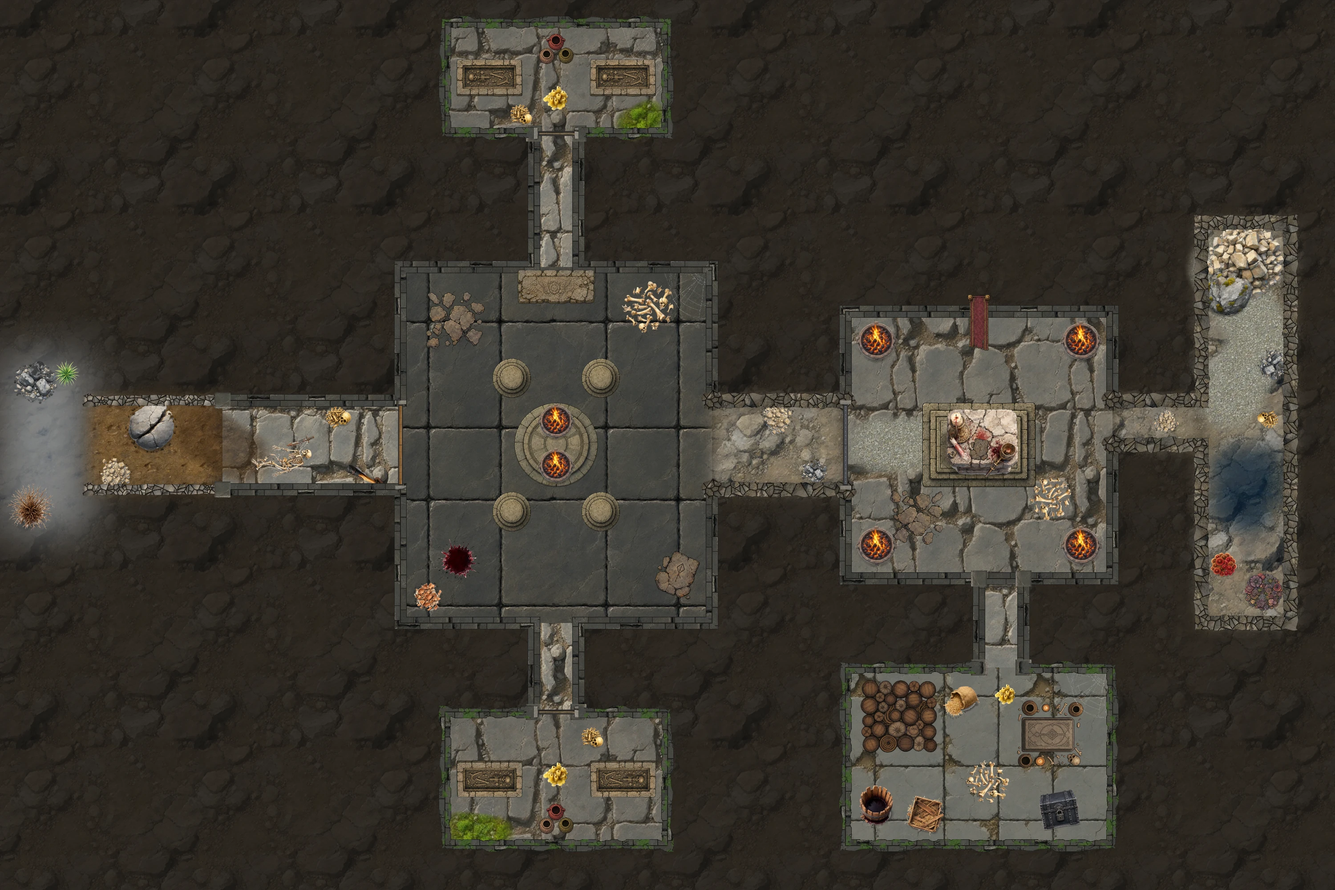
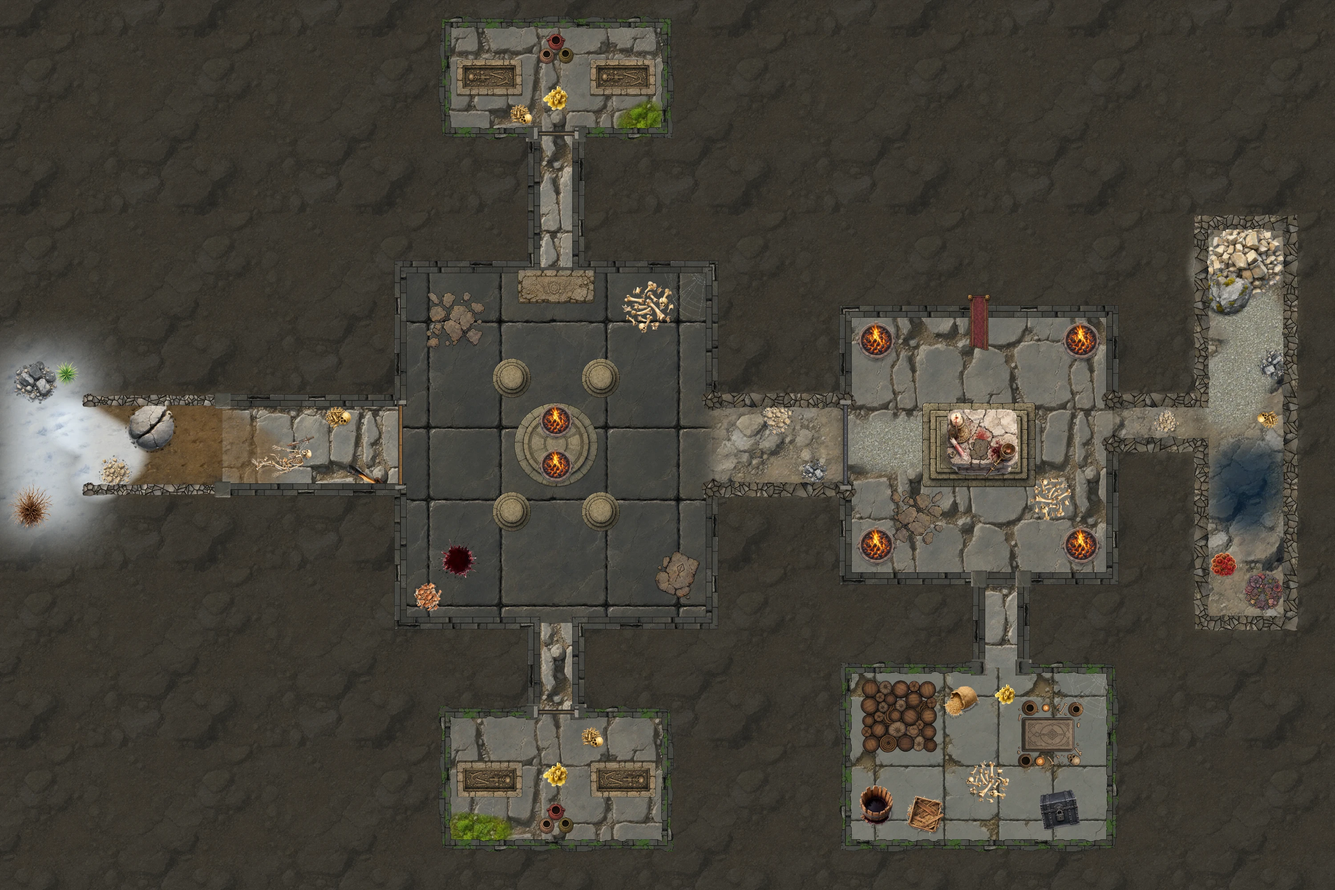
Map Studio agent tools: tabs (select, close), grid, layer, open demo; generate takes stairArt (check caught its licensed default stairs); coverage maps controls honestly and prints the ones with no action yet; Cinder Barrow art pass (rock and grit, the snowy mouth)

Changed region(s): [[0.0, 0.372, 0.124, 0.651], [0.124, 0.465, 0.217, 0.558]]

diff --git a/studio/web/agent.js b/studio/web/agent.js
@@ -160,7 +160,8 @@ window.KrakenStudioAgent = (() => {
       if (!window.KrakenGenerate) throw Error('The generator did not load.');
       const made = await window.KrakenGenerate.build({...args, grid: args.grid});
       const p = S().project;
-      for (const o of p.objects) if (o.layer === 'map') { o.floor = true; if (/^Room /.test(o.name)) o.room = true; }
+      // Its floors remember the art they were made from (check reports art outside the shipped packs).
+      for (const o of p.objects) if (o.layer === 'map') { o.floor = true; o.sourceArt = /^Room /.test(o.name) ? made.roomFloor : made.corridorFloor; if (/^Room /.test(o.name)) o.room = true; }
       done();
       return {...made, settings: window.KrakenGenerate.SETTINGS.map(s => s.id), map: summary(false)};
     },
@@ -393,8 +394,50 @@ window.KrakenStudioAgent = (() => {
       return summary(false);
     },
     async projects() { const r = await fetch('/api/projects'); const d = await r.json(); return (d.projects || []).map(x => ({id: x.id, name: x.name, saved: x.savedAt || x.updated || null})); },
+    async openDemo() { const r = await fetch('/api/demo'); const d = await r.json(); if (!r.ok) throw Error(d.error || 'No example map.'); await S().refreshAssets(); S().openDocument(d.project); S().switchMode('view'); return summary(false); },
     async openSaved({id}) { const r = await fetch('/api/projects/' + encodeURIComponent(id)); const d = await r.json(); if (!r.ok) throw Error(d.error || 'No such project.'); S().openDocument(d.project || d); S().switchMode('view'); return summary(false); },
-    tabs() { const sh = window.KrakenShell; return {active: sh?.active ?? 0, tabs: (sh?.tabs || []).map((t, i) => ({index: i, name: t.doc.project.name, dirty: !!t.doc.dirty}))}; },
+    // The open maps (the tab bar): list them, switch to one (select: its index), close one (close: its index; discard drops unsaved changes).
+    async tabs({select, close, discard = false}) {
+      const sh = window.KrakenShell;
+      if (select !== undefined) sh.selectTab(Number(select));
+      if (close !== undefined) await sh.closeTab(Number(close), !!discard);
+      return {active: sh?.active ?? 0, tabs: (sh?.tabs || []).map((t, i) => ({index: i, name: t.doc.project.name, dirty: !!t.doc.dirty}))};
+    },
+    // Grid & map size (and the Map settings fields): width and height in squares, the grid's size in pixels,
+    // its offset, feet per square, the background, the name. Art, walls and lights stay where they are.
+    grid({width, height, size, offsetX, offsetY, distance, background, name}) {
+      const p = S().project, next = JSON.parse(JSON.stringify(p)), G = size ? Math.round(num(size, 'size')) : p.grid;
+      if (size) next.grid = G;
+      if (width) next.width = Math.round(num(width, 'width') * G);
+      if (height) next.height = Math.round(num(height, 'height') * G);
+      if (offsetX !== undefined || offsetY !== undefined) next.gridOffset = {x: Number(offsetX ?? p.gridOffset?.x ?? 0), y: Number(offsetY ?? p.gridOffset?.y ?? 0)};
+      if (distance) next.gridDistance = num(distance, 'distance');
+      if (background) next.background = String(background);
+      if (name) next.name = String(name).slice(0, 120);
+      S().replace(next);
+      return summary(false);
+    },
+    // The Layers panel: a layer (its id or name) shown or hidden, locked or not, renamed, moved up or down,
+    // or made the layer new art goes on; walls, lights, effects and regions groups shown or hidden.
+    layer({id, name, hidden, locked, rename, move, active}) {
+      const p = S().project, ref = id ?? name;
+      window.KrakenLayers.ensure(p);
+      S().snapshot();
+      if (['walls', 'lights', 'effects', 'regions'].includes(String(ref)) && !p.layers.some(l => l.id === ref)) {
+        if (hidden !== undefined) p.groups[ref].visible = !hidden;
+      } else {
+        const l = p.layers.find(v => v.id === ref || v.name.toLowerCase() === String(ref).toLowerCase()) || p.layers.find(v => v.id === ensureLayer(ref));
+        if (hidden !== undefined) l.visible = !hidden;
+        if (locked !== undefined) l.locked = !!locked;
+        if (rename) l.name = String(rename).slice(0, 60);
+        if (active) p.activeLayer = l.id;
+        const i = p.layers.indexOf(l);
+        if (move === 'up' && i < p.layers.length - 1) [p.layers[i], p.layers[i + 1]] = [p.layers[i + 1], p.layers[i]];
+        if (move === 'down' && i > 0) [p.layers[i], p.layers[i - 1]] = [p.layers[i - 1], p.layers[i]];
+      }
+      done();
+      return summary(false).layers;
+    },
   };
   const lightFields = f => {
     const out = {};

diff --git a/studio/web/generate.js b/studio/web/generate.js
@@ -62,7 +62,7 @@
   }
   // A generated layout opened as a new map. The dialog's way, and Map Studio's agent tools':
   // {setting, seed, composition, rooms, loops, deadEnds, roomFloor, corridorFloor (art id or name; empty for
-  // the setting's), doorsOpen, stairs, grid}. Throws on failure; returns what it made.
+  // the setting's), doorsOpen, stairs, stairArt (art id or name; empty for the starter kit's), grid}. Throws on failure; returns what it made.
   async function build(o){
     const p=S.project,grid=Math.round(Number(o.grid)||Number(p.grid))||50;
     const s=L.SETTINGS.find(v=>v.id===o.setting)||L.SETTINGS[0],map=L.generate({seed:o.seed||randomSeed(),setting:s.id,composition:o.composition,
@@ -74,14 +74,14 @@
     status('Laying '+out.regions.length+' floors…');
     const floors=await Promise.all(out.regions.map(region=>{const a=region.kind==='room'?rooms:corridors;return floorObject(region,a,art.get(a.id),grid)}));
     floors.forEach(f=>S.addAsset(f.asset));const objects=floors.map(f=>f.object);
-    const stairArt=named(STAIRS),stairs=o.stairs!==false&&stairArt?out.stairs.filter(t=>t.kind==='stairs'):[];
+    const stairArt=o.stairArt?S.assets.find(v=>v.id===o.stairArt)||named(o.stairArt):named(STAIRS),stairs=o.stairs!==false&&stairArt?out.stairs.filter(t=>t.kind==='stairs'):[];
     for(const t of stairs)objects.push({id:t.id,assetId:stairArt.id,name:'Stairs',x:t.x,y:t.y,width:t.width,height:t.height,rotation:t.rotation,visible:true});
     objects.forEach(o=>{o.layer=o.name==='Stairs'?'objects':'map'});
     S.openDocument({version:1,name:s.label+' ('+map.seed+')',width:out.width,height:out.height,grid,background:'#1d1b17',
       objects,walls:out.walls,lights:[],effects:[],exportLayers:p.exportLayers!==false,layout:out.layout});
     S.switchMode('view');
     const doors=out.walls.filter(w=>w.kind==='door').length;
-    return {seed:map.seed,setting:s.id,rooms:map.rooms.length,walls:out.walls.length-doors,doors,stairs:stairs.length,
+    return {roomFloor:rooms.id,corridorFloor:corridors.id,roomFloorName:rooms.name,corridorFloorName:corridors.name,seed:map.seed,setting:s.id,rooms:map.rooms.length,walls:out.walls.length-doors,doors,stairs:stairs.length,
       roomList:out.regions.filter(r=>r.kind==='room').map(r=>({id:r.id,name:r.name,squares:{x:r.bounds.x/grid,y:r.bounds.y/grid,width:r.bounds.width/grid,height:r.bounds.height/grid}}))};
   }
   async function generate(e){

diff --git a/studio/web/shell.js b/studio/web/shell.js
@@ -278,5 +278,13 @@ window.KrakenShell = (() => {
   });
 
   setTimeout(restore, 0);
-  return {openDocument, newBlank, changed, markSaved, openPicture, get tabs() { return tabs; }, get active() { return active; }};
+  // Map Studio's agent tools: switch to a tab, close one (discard: drop its unsaved changes instead of asking).
+  function closeTab(i, discard = false) {
+    if (!tabs[i]) throw Error('There is no tab ' + i + '.');
+    if (discard) { sync(); tabs[i].doc.dirty = false; }
+    else { sync(); if (tabs[i].doc.dirty && !isEmpty(tabs[i].doc.project)) throw Error('That map has changes that are not saved: save it, or close it with discard.'); }
+    return close(i);
+  }
+  function selectTab(i) { if (!tabs[i]) throw Error('There is no tab ' + i + '.'); activate(i); }
+  return {openDocument, newBlank, changed, markSaved, openPicture, closeTab, selectTab, get tabs() { return tabs; }, get active() { return active; }};
 })();

diff --git a/PLAN.md b/PLAN.md
@@ -442,5 +442,5 @@ A to Z means that, by the end of step 6, a GM can run one C&C session start to f
 | Forged in the Dark | Done (worktree branch) | The Blades in the Dark SRD (John Harper, One Seven Design, CC BY 3.0) as the built-in ruleset "Forged in the Dark" (the licence forbids "Blades in the Dark" in a product title). Engine `shared/forged/rules.mjs` (mechanics only): d6 pools read by the highest die (two 6s critical, zero dice two keeping the lowest, no critical), position and effect (clock ticks: limited 1, standard 2, great 3, extreme 4 is Kraken's), assist +1d/1 stress, push +1d or +1 effect/2 stress, Devil's Bargain, resistance 6 - highest (critical clears 1), stress 9 (+1 Composed), trauma at the last box (4 retires, +1 Hardened), harm rows 2/2/1 moving up, penalties (less effect, -1d, need help; Tough as nails), the healing clock (4, Vigorous 3), xp tracks (playbook 8, attributes 6) and advances, load (3/5/6, Mule 5/7/8), crew (Tier, hold, rep 12 - turf, develop for new Tier x 8 coin, heat 9 to a wanted level, entanglements by heat column and wanted dice), downtime (2 activities, more for coin or rep; acquire, project, recover, reduce heat, train, vice with overindulgence). Host `electron/forged.cjs` (scoundrels, rolls, downtime, the crew on the party record's data.crew, payoff, heat, entanglements, engagement, fortune, group actions), `electron/clocks.cjs` (clocks and the Score panel's state, for every ruleset). UI: `src/characters/SheetForged.tsx` (sheet + wizard), `src/party/CrewSheet.tsx` (crew sheet + wizard), `src/combat/ScorePanel.tsx` (the Combat window in this ruleset), `src/notes/ClocksWindow.tsx` (window, strip). Books from the SRD's Markdown (`games/forged-dark`): Scoundrel's Handbook (7 playbooks and 6 crew types of Kraken's own made of the SRD's 42 + 16 example abilities, 16 standard items, 10 tables), Game Master's Guide (10 cohorts, entanglements), The Brine Street Job (7 story entries, 5 NPCs, 4 factions, 4 clocks, 2 parcels, a mapgen map with 61 walls and 7 doors). Tools `kraken_forged`, `kraken_clocks`; tests `npm run forged` (99 checks), `npm run forged-ui`, e2e plan "Forged in the Dark". |
 | Apeira Astra: Marks and tricks, A Lamp in the Rock | Done | Another agent's (Grok's) additions to Apeira Astra reviewed and folded in: 15 gear items and the Kit page, the Advancement and Marks pages, reach.mjs (12 threats and contacts with art, the Work pages: running a job, a salvage roll, six jobs), lamp-in-the-rock.mjs (registered in build-content; maps harrow-cut / harrow-midships regenerate exactly with mapgen.py; Kestrel's decks unchanged). Changed: the four text-card handouts (pictures of lettering) dropped, their words put in the story; rules text fixed to the engine (sensor tasks named Electronics, a bare spool's Desperate tasks, Skein Stomach no longer invents a jump Bane); NPC attack bonuses = skill + modifier. Marks: each Path record carries `tricks` (crew.mjs; its text lists them); a character's `marks` (0-6) and `tricks` (rules.mjs derive, awardMark, learnTrick, forgetTrick, trickChoices, tricksForSkill); electron/astra.cjs markAstra (award/take the GM's, learn the owner's: own Paths only, one per Mark, never twice; forget the GM's), table message character-mark, tool kraken_character_mark; SheetAstra's Marks panel (pips, tricks with text, Award a Mark for the GM, the trick picker) and a trick beside the skill it names; the wizard lists the Paths' tricks. Party award left alone: a Mark is one person's, not a split. check-astra (npm run astra), verify-astra-ui (the GM awards, a test player learns She'll Hold) |
 | Code mode for agents | Done | `kraken_code` (electron/agent/codeMode.cjs): one piece of JavaScript calling several Kraken tools (`await kraken(name, args)`, Promise.all, a result into the next call), only its return value sent back, as in Claude Code's Code Mode. A V8 context of its own with no require, process or string-to-code; only JSON strings cross; 5 s between awaits, 120 s (up to 600) in all, 1000 calls; not callable from itself, withheld from the DM assistant. `npm run code-mode` (18 checks: parallel and chained calls, failures, loops stopped before and after an await, the sandbox probed) |
-| Map Studio for agents | Done (Cinder Barrow candidate in review) | `kraken_map_studio` (electron/studio/agentTools.cjs; studio/web/agent.js runs each action with the editor's own code in the GM's Map Studio iframe, main.cjs studioOp opening it if closed). The editor's form-bound code made callable without drift: generate.js build() and floorObject (cells or polygons, feather), beta2.js textureStroke/paintScatter, wallart.js bakeWall (awaited, throws), los.js addShape/razor, regions.js add(points, options), app.js capture() (the canvas with chosen overlays) and loaded(). Units squares, lights feet. Render (picture = flat(), editor, play test) to PNG with crop; export = webp + walls.json (book shape, plus secret/window/type and lights, which imageRecord does not read yet) + portable zip; Save to Kraken into the open image or a new scene (backend saveOpen through studioSave). check: doors on wall lines, lights on light art, props in rooms, art outside the shipped packs. Coverage: every Map Studio button, rail mode, start card and paint tool maps to an action (check-coverage.mjs). Checks: npm run studio-tools (every action in the real app, the editor's tab/layers/canvas, Save to Kraken into the campaign). Skill: skills/kraken-map-studio (SKILL.md, README.md, missing-assets.md with prompts). The Cinder Barrow rebuilt with the tools from the scenario text (scripts/studio-map-cinder-barrow.mjs; games/ironsworn/maps/cinder-barrow-studio.webp + .walls.json, grid 100, shipped art only); not in books.mjs yet |
+| Map Studio for agents | Done (Cinder Barrow candidate in review) | `kraken_map_studio` (electron/studio/agentTools.cjs; studio/web/agent.js runs each action with the editor's own code in the GM's Map Studio iframe, main.cjs studioOp opening it if closed). The editor's form-bound code made callable without drift: generate.js build() and floorObject (cells or polygons, feather), beta2.js textureStroke/paintScatter, wallart.js bakeWall (awaited, throws), los.js addShape/razor, regions.js add(points, options), app.js capture() (the canvas with chosen overlays) and loaded(). Units squares, lights feet. Render (picture = flat(), editor, play test) to PNG with crop; export = webp + walls.json (book shape, plus secret/window/type and lights, which imageRecord does not read yet) + portable zip; Save to Kraken into the open image or a new scene (backend saveOpen through studioSave). check: doors on wall lines, lights on light art, props in rooms, art outside the shipped packs. Coverage: every Map Studio button, rail mode, start card and paint tool maps to an action (check-coverage.mjs). Also tabs (select, close), grid (Grid & map size), layer (the Layers panel), open demo; generate takes stairArt (its default stairs are a licensed starter kit's: check caught it). Not yet (coverage prints them): add your own art, map from a picture, duplicate, group, lock, align, assemblies. Checks: npm run studio-tools (every action in the real app, the Generate dialog through the same build(), the editor's tab/layers/canvas, Save to Kraken into the campaign). Skill: skills/kraken-map-studio (SKILL.md, README.md, missing-assets.md with prompts). The Cinder Barrow rebuilt with the tools from the scenario text (scripts/studio-map-cinder-barrow.mjs; games/ironsworn/maps/cinder-barrow-studio.webp + .walls.json, grid 100, shipped art only); not in books.mjs yet |
 | Next | Open | Art for both games (portraits, tokens, covers, handouts) when the GPU is free; more adventures |

diff --git a/AGENT.md b/AGENT.md
@@ -48,7 +48,7 @@ doesn't get it (it could reach the tools withheld from the assistant).
 | Updates (the start screen alone): what Kraken found at launch, download, restart and install (never while hosting) | `kraken_updates` (status, download, install) |
 | Images (Campaign > Images): open a book's picture in the image window (the GM's alone, the same master everywhere: the map tools then work on it), put it in play, play test, close | `kraken_image` (open, play, test, close); `kraken_library` list kind image |
 | Map Studio (Kraken's map maker, studio/web served by electron/studio/server.cjs): open the open image in it; its Save to Kraken writes walls, lights, weather and the painted picture into the image's master | `kraken_image` action studio; `kraken_windows` kind studio |
-| Map Studio's editor itself, every action (skill: [skills/kraken-map-studio/SKILL.md](skills/kraken-map-studio/SKILL.md)): the art library; New, Generate a dungeon; floors (tiled from the map's corner, feathered), the Texture and Scatter brushes, stamping art; the Wall tool's wall art with its line of sight, Walls & doors lines, doors in gaps (the Razor cuts the wall); Lights and time of day; Weather effects in areas; Traps & regions; changing, removing, undo, redo; the map read back and checked against the skill's quality rules; a full-size render (the picture, the editor's view, or the play test from a token); Save project, Open (saved, or a .json / portable .zip); Save to Kraken (into the open image or a new scene); export for a book (picture + walls JSON + portable project). Done by the editor's own code (studio/web/agent.js) in the GM's Map Studio window (main.cjs studioOp, opened if closed); units are squares. `npm run coverage` maps every editor control to an action; `npm run studio-tools` checks each | `kraken_map_studio` (library, new, generate, floor, paint, scatter, place, wall, door, light, ambient, weather, region, update, remove, undo, redo, map, check, render, save, projects, open, tabs, export, kraken) |
+| Map Studio's editor itself, every action (skill: [skills/kraken-map-studio/SKILL.md](skills/kraken-map-studio/SKILL.md)): the art library; New, Generate a dungeon; floors (tiled from the map's corner, feathered), the Texture and Scatter brushes, stamping art; the Wall tool's wall art with its line of sight, Walls & doors lines, doors in gaps (the Razor cuts the wall); Lights and time of day; Weather effects in areas; Traps & regions; changing, removing, undo, redo; the map read back and checked against the skill's quality rules; a full-size render (the picture, the editor's view, or the play test from a token); Save project, Open (saved, or a .json / portable .zip); Save to Kraken (into the open image or a new scene); export for a book (picture + walls JSON + portable project). Done by the editor's own code (studio/web/agent.js) in the GM's Map Studio window (main.cjs studioOp, opened if closed); units are squares. `npm run coverage` maps every editor control to an action; `npm run studio-tools` checks each | `kraken_map_studio` (library, new, generate, floor, paint, scatter, place, wall, door, light, ambient, weather, region, update, remove, undo, redo, map, check, render, save, projects, open (saved, file, demo), tabs (select, close), grid, layer, export, kraken). Not yet: add your own art, a map from a picture, duplicate, group, lock, align, assemblies (coverage prints the list) |
 | Quick slots: read or set a seat's ten (books, pages, pictures, sheets, sounds, notes, records, dice `{kind: dice, formula}`, chat macros `{kind: macro, text}`); use one as its click or number key does | `kraken_quickslots` (slots; press) |
 | Sidebar Assistant: ask, stop, new chat (its key is set in its window or ANTHROPIC_API_KEY, never by a tool) | `kraken_assistant`, `kraken_windows` kind assistant |
 | **Campaigns** | |

diff --git a/skills/kraken-map-studio/SKILL.md b/skills/kraken-map-studio/SKILL.md
@@ -71,7 +71,10 @@ squares of margin round the outside.
   (the art is about 256 px per square; 100 keeps it crisp), background a dark
   colour such as `#16130f`).
 - Or a seeded dungeon to start from: `generate` (setting, seed, rooms...).
-  Same seed, same dungeon. Then dress it as below.
+  Same seed, same dungeon. **Always give `roomFloor`, `corridorFloor` and
+  `stairArt`** (or `stairs: false`): without them it falls back on a starter
+  kit's names, which on a GM's computer may be licensed art. Then dress it as
+  below.
 
 ### 3. Floors
 
